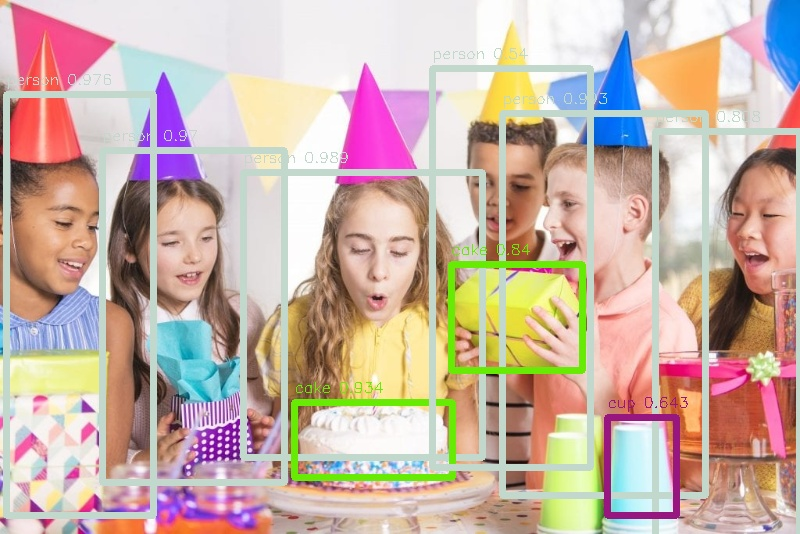
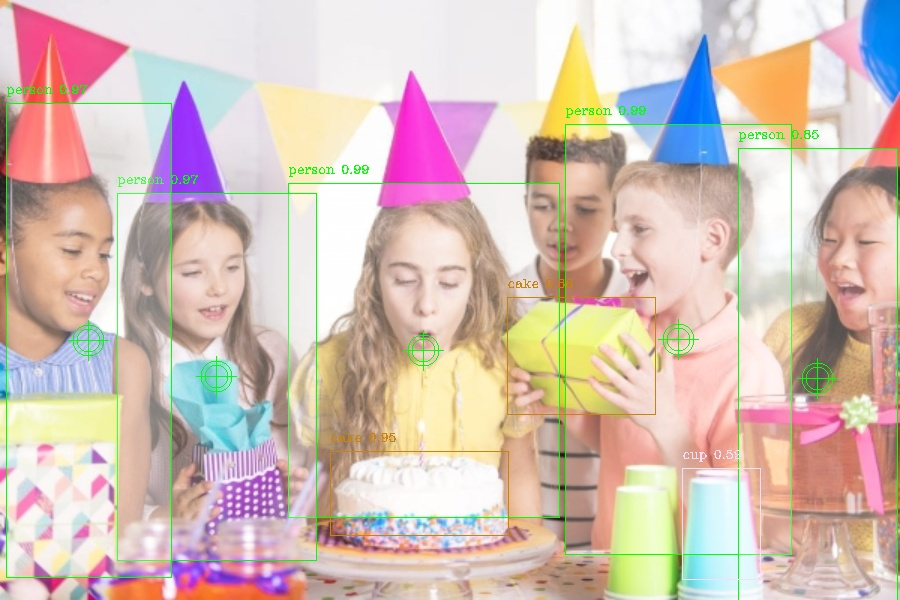
performance improved

diff --git a/test.py b/test.py
@@ -2,26 +2,135 @@ import requests
 import matplotlib.pyplot as plt
 import numpy as np
 import json
+import cv2
 
-# url = 'https://objects-detection-app.herokuapp.com/test/'
-url = 'http://localhost:5000/test/'
-data = 'https://ericinlithuania.files.wordpress.com/2011/12/old-town-street-21.jpg'
+url0 = 'https://ericinlithuania.files.wordpress.com/2011/12/old-town-street-21.jpg'
 
-j_data = {'name':data}
-r = requests.get(url = url, params = j_data)
-coded_string = r.text
-jsondict = json.loads(coded_string)
 
-if 'MESSaAGE' in jsondict.keys():
-    print(json.loads(coded_string)['MESSAGE'])
-else:
-    print(jsondict.keys())
-    img = np.array(jsondict["image"])
-    img_shape = jsondict["shape"]
-    print(img_shape)
+def test_api(img_url, heroku=False):
+    url_h = 'https://objects-detection-app.herokuapp.com/test/'
+    url = 'http://localhost:5000/test/'
 
-    img = img.reshape(*img_shape)
-    plt.figure(figsize=(10,8))
-    plt.imshow(img)
-    plt.axis("off")
-    plt.show()
+    if heroku:
+        url = url_h
+
+    j_data = {'name': url}
+    r = requests.get(url=url, params=j_data)
+    coded_string = r.text
+    jsondict = json.loads(coded_string)
+
+    if 'MESSAGE' in jsondict.keys():
+        print(json.loads(coded_string)['MESSAGE'])
+    else:
+        print(jsondict.keys())
+        img = np.array(jsondict["image"])
+        img_shape = jsondict["shape"]
+        print(img_shape)
+
+        img = img.reshape(*img_shape)
+        plt.figure(figsize=(10, 8))
+        plt.imshow(img)
+        plt.axis("off")
+        plt.show()
+
+
+# test_api(url0)
+
+def png2rgb(png, background=(255, 255, 255)):
+    """Image converting in case if we get a link"""
+    image_np = png
+    row, col, ch = image_np.shape
+
+    if ch == 3:
+        return image_np
+
+    rgb = np.zeros((row, col, 3), dtype='float32')
+    r, g, b, a = image_np[:, :, 0], image_np[:, :, 1], image_np[:, :, 2], image_np[:, :, 3]
+    a = np.asarray(a, dtype='float32') / 255.0
+    R, G, B = background
+
+    rgb[:, :, 0] = r * a + (1.0 - a) * R
+    rgb[:, :, 1] = g * a + (1.0 - a) * G
+    rgb[:, :, 2] = b * a + (1.0 - a) * B
+
+    return np.asarray(rgb, dtype='uint8')
+
+
+def overlay_transparent(background, overlay, x, y):
+    background_width = background.shape[1]
+    background_height = background.shape[0]
+
+    if x >= background_width or y >= background_height:
+        return background
+
+    h, w = overlay.shape[0], overlay.shape[1]
+
+    if x + w > background_width:
+        w = background_width - x
+        overlay = overlay[:, :w]
+
+    if y + h > background_height:
+        h = background_height - y
+        overlay = overlay[:h]
+
+    if overlay.shape[2] < 4:
+        overlay = np.concatenate(
+            [overlay, np.ones((overlay.shape[0], overlay.shape[1], 1),
+                              dtype=overlay.dtype) * 255], axis=2, )
+
+    overlay_image = overlay[..., :3]
+    mask = overlay[..., 3:] / 255.0
+    background[y:y + h, x:x + w] = (1.0 - mask) * background[y:y + h, x:x + w] + mask * overlay_image
+
+    return background
+
+
+def draw_m(img, center_coords=None, d0=None, thickness=4):
+    h, w = img.shape[:-1]
+
+    if d0 is None:
+        d0 = int(0.04 * w)
+    if center_coords is None:
+        center_coords = (0 + w // 2, 0 + h // 2)
+
+    d1 = int(2 * d0)
+    d2 = int(2.8 * d0)
+
+    pt1 = (center_coords[0] - d2, center_coords[1])
+    pt2 = (center_coords[0] + d2, center_coords[1])
+    pt3 = (center_coords[0], center_coords[1] - d2)
+    pt4 = (center_coords[0], center_coords[1] + d2)
+    color = (0, 255, 0)
+
+    # Draw green circle
+    img = cv2.circle(img, center_coords, d1, (0, 255, 0), thickness)
+    img = cv2.circle(img, center_coords, d0, (0, 255, 0), thickness)
+    img = cv2.line(img, pt1, pt2, (0, 255, 0), thickness)
+    img = cv2.line(img, pt3, pt4, (0, 255, 0), thickness)
+
+    return img
+
+
+img = cv2.imread("templates/chess.jpg", cv2.IMREAD_UNCHANGED)
+icon = cv2.imread("templates/icon-person.png", cv2.IMREAD_UNCHANGED)
+icon = png2rgb(icon)
+print(img.shape, icon.shape)
+
+img = cv2.resize(img, dsize=None, fx=2, fy=2)
+# img = cv2.cvtColor(img, cv2.COLOR_BGR2RGB)
+
+#######################################################
+gray = cv2.cvtColor(img,cv2.COLOR_BGR2GRAY)
+corners = cv2.goodFeaturesToTrack(gray,25,0.01,10)
+corners = np.int0(corners)
+for i in corners:
+    x,y = i.ravel()
+    cv2.circle(img,(x,y),3,255,5)
+
+# img = overlay_transparent(img, icon, 200, 200)
+# img = draw_m(img, center_coords=(300, 500), thickness=6)
+# img = draw_m(img, thickness=10)
+
+plt.imshow(img, cmap='gray')
+plt.savefig('test.jpg')
+plt.show()

diff --git a/yolo.py b/yolo.py
@@ -17,7 +17,7 @@ from PIL import Image
 BUCKET_NAME = 'yoloweights' # bucket name
 KEY = 'yolov3.weights' # object key
 
-# s3 = boto3.resource('s3', aws_access_key_id=AWS_ACCESS_KEY_ID, aws_secret_access_key=AWS_SECRET_ACCESS_KEY)
+s3 = boto3.resource('s3', aws_access_key_id=AWS_ACCESS_KEY_ID, aws_secret_access_key=AWS_SECRET_ACCESS_KEY)
 s3 = boto3.resource('s3')
 
 try:
@@ -31,7 +31,14 @@ except botocore.exceptions.ClientError as e:
 filename0 = 'cococlasses.sav'
 c_classes = pickle.load(open(filename0, 'rb'))
 
-def resize_img(img, resizing=800):
+app = Flask(__name__)
+app.config['UPLOAD_FOLDER'] = 'static/uploads/'
+app.config['MAX_CONTENT_LENGTH'] = 16 * 1024 * 1024
+app.secret_key = "secret key"
+
+ALLOWED_EXTENSIONS = {'png', 'jpg', 'jpeg', 'gif'}
+
+def resize_img(img, resizing=600):
     h, w, d = img.shape
     if w > resizing:
         coef = h/w
@@ -125,41 +132,54 @@ def main(img, net, filename, cococlasses=c_classes, precision=.4, multicolor=Fal
         colors = frame_color(cococlasses, class_names)
 
     img_yolo = img.copy()
+    resize_coef = 1.5
+    img_yolo = cv2.resize(img_yolo, dsize=None, fx=resize_coef,fy=resize_coef)
 
     for i in indices.flatten():
-        x, y, w, h = boxes[i]
+        x, y, w, h = [int(crd * resize_coef) for crd in boxes[i]]
+        # print(x, y, w, h)
         class_name = class_names[i]
         confidence = confidences[i]
         color = colors[i]
-        text = f'{class_name} {confidence:.3}'
-        cv2.rectangle(img_yolo, (x, y), (x + w, y + h), color, 4)
+        text = f'{class_name} {confidence:.2}'
+
+        # print(class_name)
+        if class_name == 'person':
+            center_coord = (x+w//2, y+h//2)
+            pt1 = (center_coord[0] - 20, center_coord[1])
+            pt2 = (center_coord[0] + 20, center_coord[1])
+            pt3 = (center_coord[0], center_coord[1] - 20)
+            pt4 = (center_coord[0], center_coord[1] + 20)
+            color = (0,255,0)
+
+            # Draw transparent frames
+            sub_img = img_yolo[y:y + h, x:x + w]
+            white_rect = np.ones(sub_img.shape, dtype=np.uint8) * 255
+            res = cv2.addWeighted(sub_img, 0.75, white_rect, 0.25, 1.0)
+
+            # Putting the image back to its position
+            img_yolo[y:y + h, x:x + w] = res
+
+            # Draw green circle
+            img_yolo = cv2.circle(img_yolo, center_coord, 16, color, 1)
+            img_yolo = cv2.circle(img_yolo, center_coord, 12, color, 1)
+            img_yolo = cv2.line(img_yolo, pt1, pt2, color, 1)
+            img_yolo = cv2.line(img_yolo, pt3, pt4, color, 1)
+
+        cv2.rectangle(img_yolo, (x, y), (x + w, y + h), color, 1)
         cv2.putText(
             img_yolo,
             text,
             (x, y - 10),
-            cv2.FONT_HERSHEY_SIMPLEX,
-            0.5,
+            cv2.FONT_HERSHEY_COMPLEX,
+            0.4,
             color)
 
     save_img(img_yolo, filename)
     return True
 
-app = Flask(__name__)
-
-net = cv2.dnn.readNetFromDarknet('yolov3.cfg', 'yolov.weights')
-net.setPreferableBackend(cv2.dnn.DNN_BACKEND_OPENCV)
-# test = cv2.imread('templates/chess.jpg', cv2.IMREAD_UNCHANGED)
-
-ALLOWED_EXTENSIONS = {'png', 'jpg', 'jpeg', 'gif'}
-
-
 def allowed_file(filename):
     return '.' in filename and filename.rsplit('.', 1)[1].lower() in ALLOWED_EXTENSIONS
-
-
-app.config['UPLOAD_FOLDER'] = 'static/uploads/'
-app.config['MAX_CONTENT_LENGTH'] = 16 * 1024 * 1024
-app.secret_key = "secret key"
 
 
 @app.route('/')
@@ -187,7 +207,7 @@ def upload_image():
             img_inp = cv2.imread(img_path, cv2.IMREAD_UNCHANGED)
             img_inp = png2rgb(img_inp)
             img_inp = resize_img(img_inp, 600)
-            r = main(img_inp, net, filename, multicolor=False, precision=.3)
+            r = main(img_inp, net, filename, multicolor=False, precision=.5)
             time.sleep(4)
             if r:
                 flash('Image successfully uploaded and recognized')
@@ -248,6 +268,9 @@ def respond():
 
 
 if __name__ == '__main__':
+    net = cv2.dnn.readNetFromDarknet('yolov3.cfg', 'yolov.weights')
+    net.setPreferableBackend(cv2.dnn.DNN_BACKEND_OPENCV)
+    # test = cv2.imread('templates/chess.jpg', cv2.IMREAD_UNCHANGED)
 
     port = os.environ.get('PORT')
     if port:
